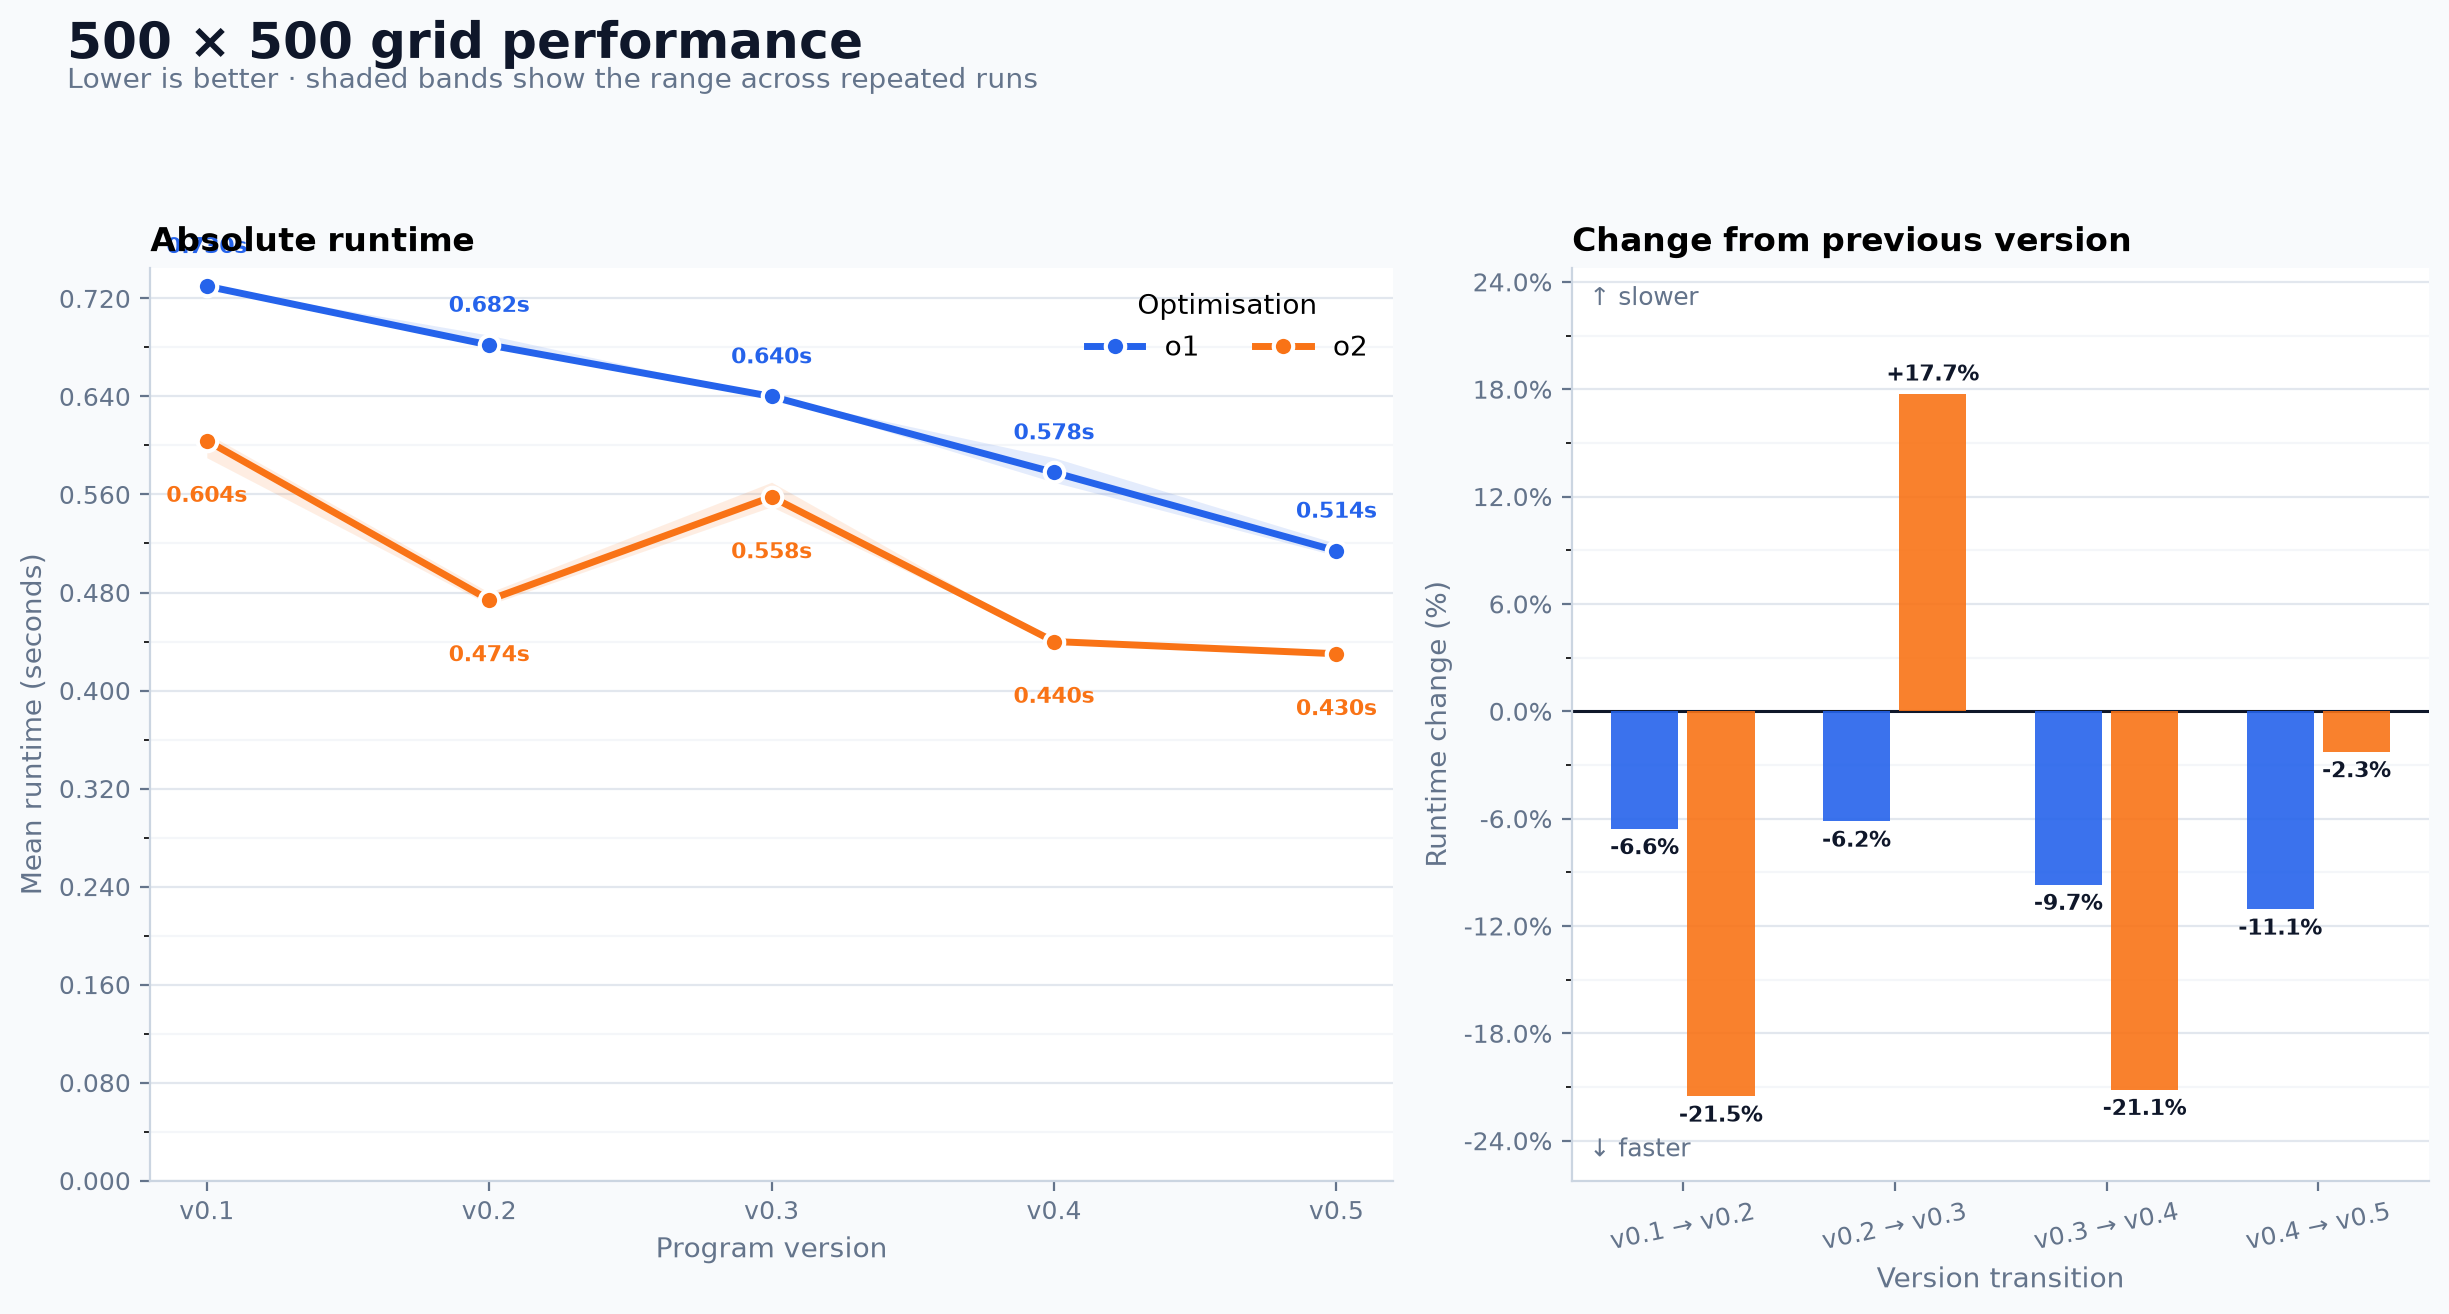
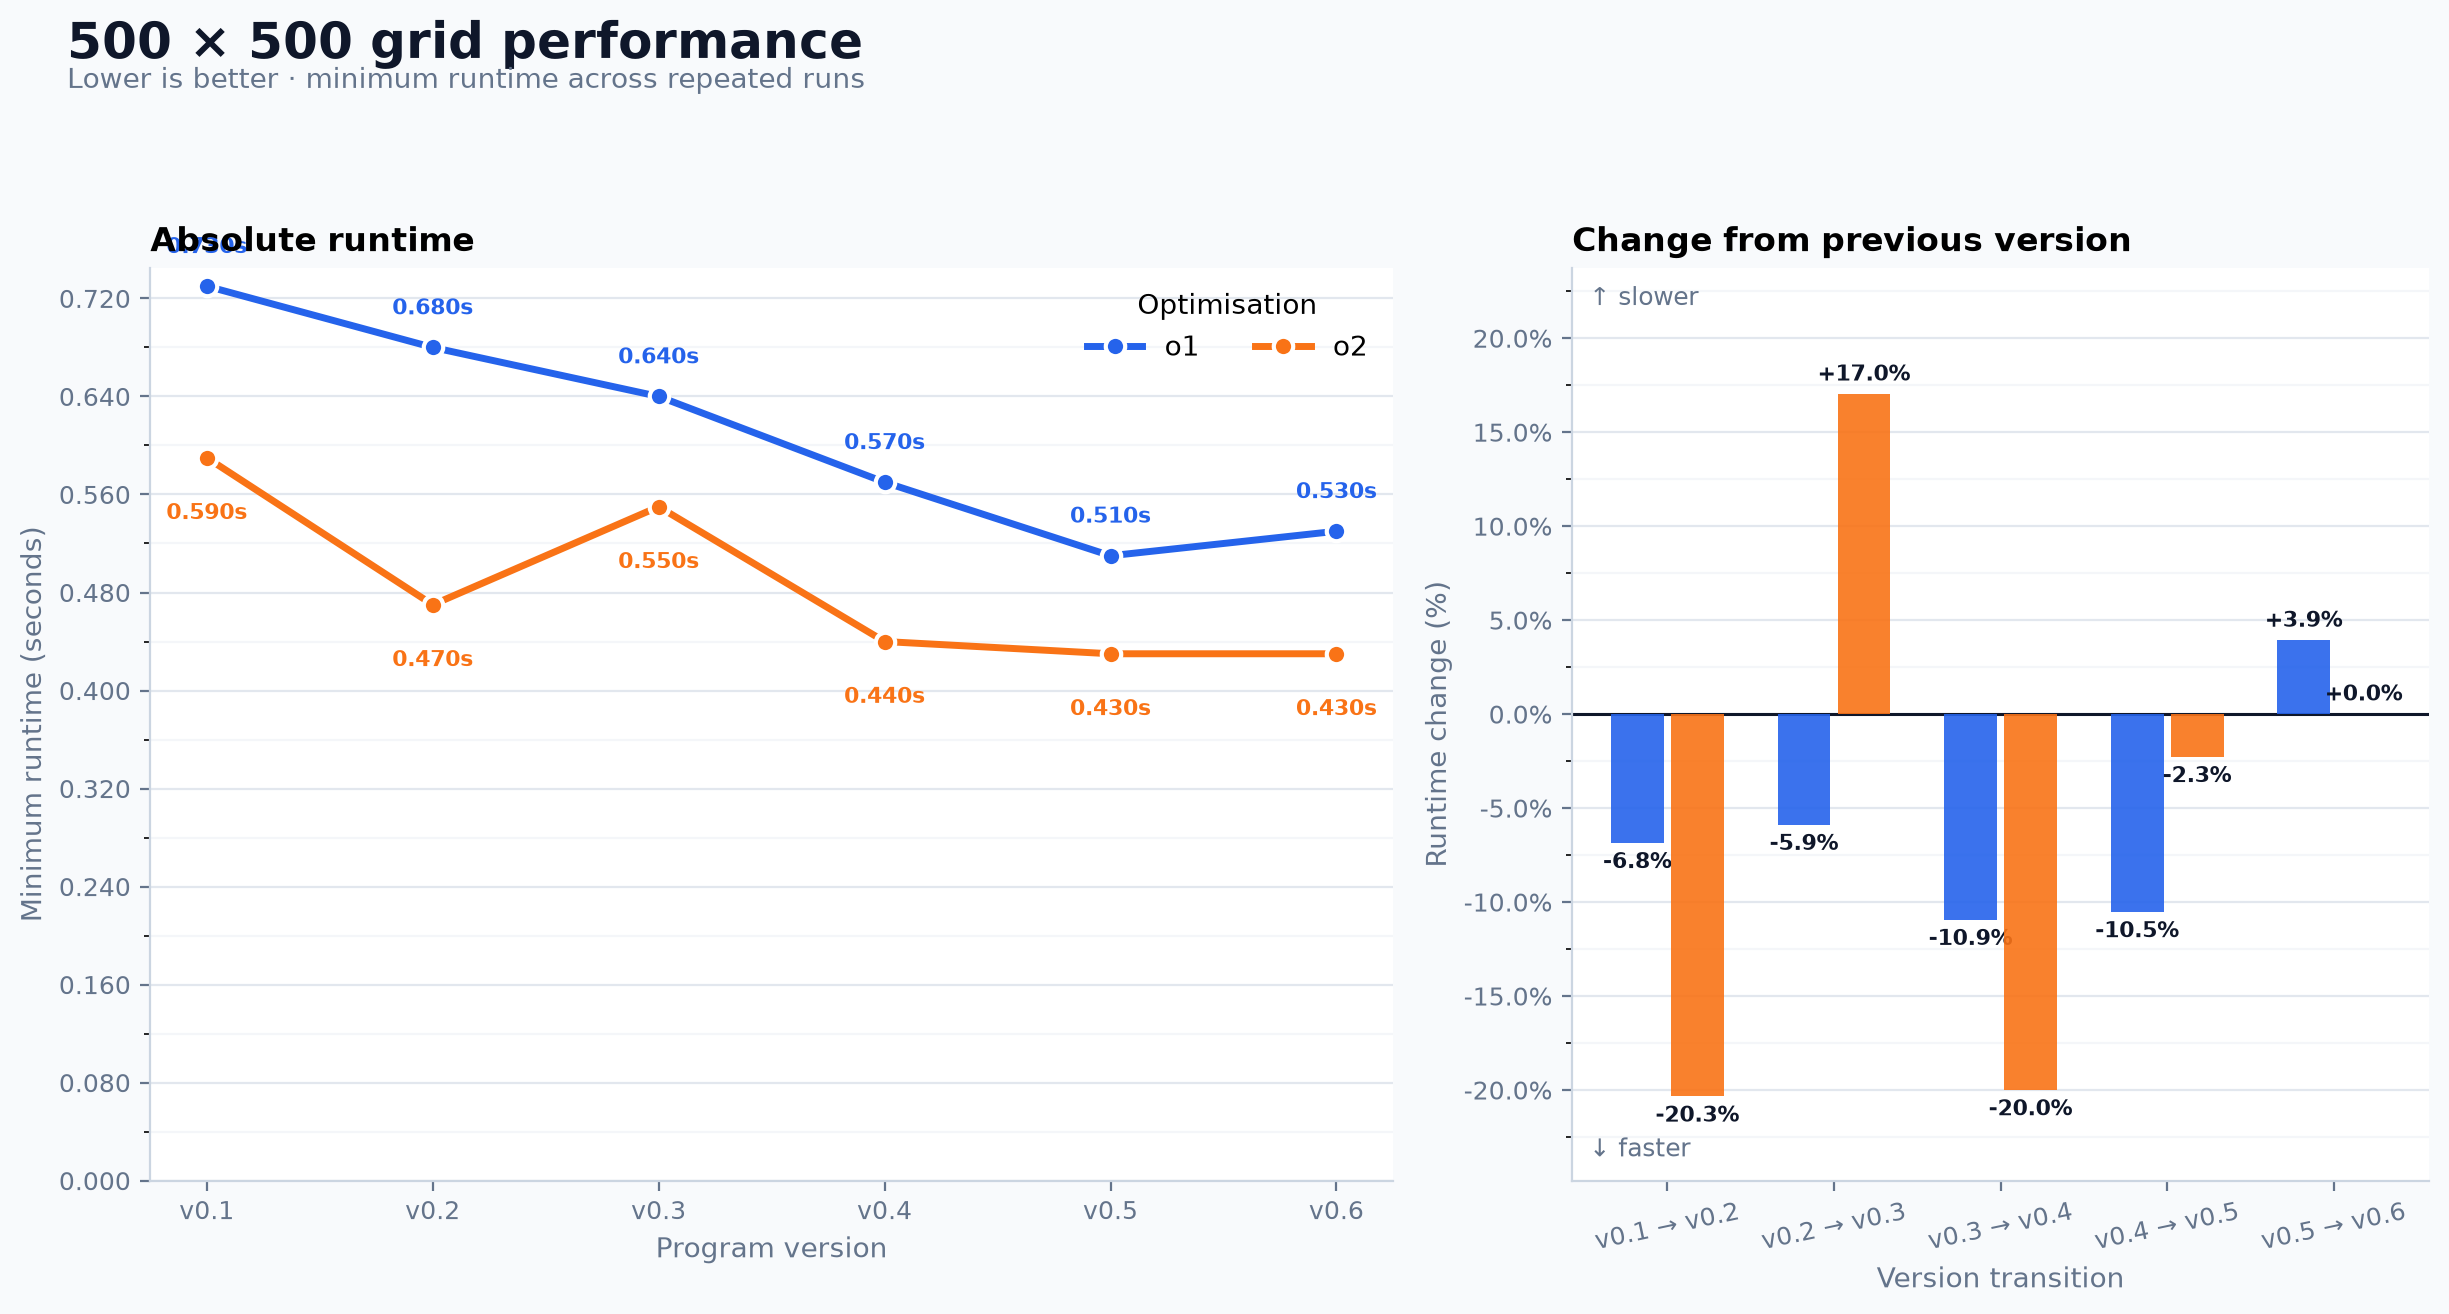
add devlog entry for v0.6

diff --git a/tools/plot_benchmarks.py b/tools/plot_benchmarks.py
@@ -2,10 +2,11 @@
 """Plot benchmark CSV files.
 
 Each input CSV must contain the columns ``version``, ``opt_flag``,
-``grid_size``, and ``total_s``. Repeated benchmark runs are averaged before
-plotting. One two-panel performance chart is written for every grid size
-present in the input files. The first panel shows absolute runtimes and the
-second highlights the percentage change from each preceding version.
+``grid_size``, and ``total_s``. The minimum runtime from repeated benchmark
+runs is used for plotting. One two-panel performance chart is written for
+every grid size present in the input files. The first panel shows absolute
+runtimes and the second highlights the percentage change from each preceding
+version.
 
 Example:
 
@@ -23,7 +24,6 @@ import math
 import re
 from collections import defaultdict
 from pathlib import Path
-from statistics import fmean
 from typing import DefaultDict
 
 import matplotlib
@@ -120,10 +120,10 @@ def plot_grid(
         }
     )
     x_positions = list(range(len(versions)))
-    mean_series = {
+    minimum_series = {
         opt_flag: [
             (
-                fmean(optimisation_runs[version][opt_flag])
+                min(optimisation_runs[version][opt_flag])
                 if opt_flag in optimisation_runs[version]
                 else math.nan
             )
@@ -133,7 +133,7 @@ def plot_grid(
     }
     maximum_runtime = max(
         runtime
-        for runtimes in mean_series.values()
+        for runtimes in minimum_series.values()
         for runtime in runtimes
         if math.isfinite(runtime)
     )
@@ -149,32 +149,7 @@ def plot_grid(
 
     for series_index, opt_flag in enumerate(optimisations):
         colour = SERIES_COLOURS[series_index % len(SERIES_COLOURS)]
-        runtimes = mean_series[opt_flag]
-        lower_bounds = [
-            (
-                min(optimisation_runs[version][opt_flag])
-                if opt_flag in optimisation_runs[version]
-                else math.nan
-            )
-            for version in versions
-        ]
-        upper_bounds = [
-            (
-                max(optimisation_runs[version][opt_flag])
-                if opt_flag in optimisation_runs[version]
-                else math.nan
-            )
-            for version in versions
-        ]
-
-        runtime_axes.fill_between(
-            x_positions,
-            lower_bounds,
-            upper_bounds,
-            color=colour,
-            alpha=0.12,
-            linewidth=0,
-        )
+        runtimes = minimum_series[opt_flag]
         runtime_axes.plot(
             x_positions,
             runtimes,
@@ -205,7 +180,7 @@ def plot_grid(
     _style_axes(runtime_axes)
     runtime_axes.set_xticks(x_positions, versions)
     runtime_axes.set_xlabel("Program version")
-    runtime_axes.set_ylabel("Mean runtime (seconds)")
+    runtime_axes.set_ylabel("Minimum runtime (seconds)")
     runtime_axes.set_title("Absolute runtime", loc="left", fontweight="bold")
     runtime_axes.set_ylim(bottom=0)
     runtime_axes.yaxis.set_major_locator(MaxNLocator(nbins=10, min_n_ticks=6))
@@ -234,7 +209,7 @@ def plot_grid(
         bar_positions = [position + offset for position in transition_positions]
         changes = []
         for previous, current in zip(
-            mean_series[opt_flag], mean_series[opt_flag][1:]
+            minimum_series[opt_flag], minimum_series[opt_flag][1:]
         ):
             if math.isfinite(previous) and math.isfinite(current) and previous > 0:
                 changes.append((current / previous - 1) * 100)
@@ -314,7 +289,7 @@ def plot_grid(
     figure.text(
         0.06,
         0.93,
-        "Lower is better · shaded bands show the range across repeated runs",
+        "Lower is better · minimum runtime across repeated runs",
         ha="left",
         color=MUTED_TEXT_COLOUR,
         fontsize=10,

diff --git a/notes/devlog.md b/notes/devlog.md
@@ -221,3 +221,40 @@ from 3.72 billion to 1.73 billion (53% fewer), while D1 misses fell only from
 the speedup comes mainly from removing vector indirection and allocation
 overhead, rather than a major improvement in cache locality. Full results are
 in [`data/v0.5/cachegrind/`](../data/v0.5/cachegrind/).
+
+# v0.6
+
+For this version I applied induction-variable simplification to the flattened grid traversal. Instead of calculating `x * grid_size + y` in the inner loop, the loop calculates the start and end of each row once and increments a single `index` variable through the contiguous interior cells. I applied the same
+indexing to `hash1d_grid`.
+
+The 1D grid hash was checked against the known reference case of a 1000² grid, 500 timesteps, `p=0.02`, and `f=0.01`. The resulting hash was `15213144908148633160`, so the rewrite preserved correctness.
+
+The benchmark was run with the same setup as v0.5: five timed repetitions, 500 timesteps, one pinned CPU, GCC 8.5.0, and an AMD EPYC 7542 node. The results did not show a speedup:
+
+|  Grid | Build | v0.5 mean user time | v0.6 mean user time |     Change |
+| ----: | :---: | ------------------: | ------------------: | ---------: |
+|  500² |  O1   |             0.500 s |             0.520 s | ~4% slower |
+|  500² |  O2   |             0.418 s |             0.418 s |  unchanged |
+| 1000² |  O1   |             2.016 s |             2.136 s | ~6% slower |
+| 1000² |  O2   |             1.668 s |             1.688 s | ~1% slower |
+
+
+The surprising result is explained by the difference between source-level
+operations and generated machine instructions. Although the original source
+spelled out a multiplication and addition for every cell, GCC can recognize
+that `x * grid_size` is invariant within the inner loop and reduce the
+expression automatically. The original loop was therefore likely already
+using an induction variable in the optimized executable. The manual rewrite
+expresses the same optimization, but changes register allocation, loop
+comparison, branch layout, and instruction scheduling. GCC 8.5 generated
+slightly worse `O1` code for the new loop. At `O2`, both binaries had the same
+text size, which is consistent with the compiler optimizing both versions to
+essentially the same result.
+
+This change did not alter the memory access order or neighbor access pattern,
+so it was a CPU instruction/code-generation experiment rather than a cache
+locality optimization. Conclusion: induction-variable simplification did not
+produce a measurable benefit for this workload and should not be counted as a
+successful optimization without further assembly or performance-counter
+evidence. Full benchmark data is in
+[`data/v0.6/benchmarking/`](../data/v0.6/benchmarking/).
